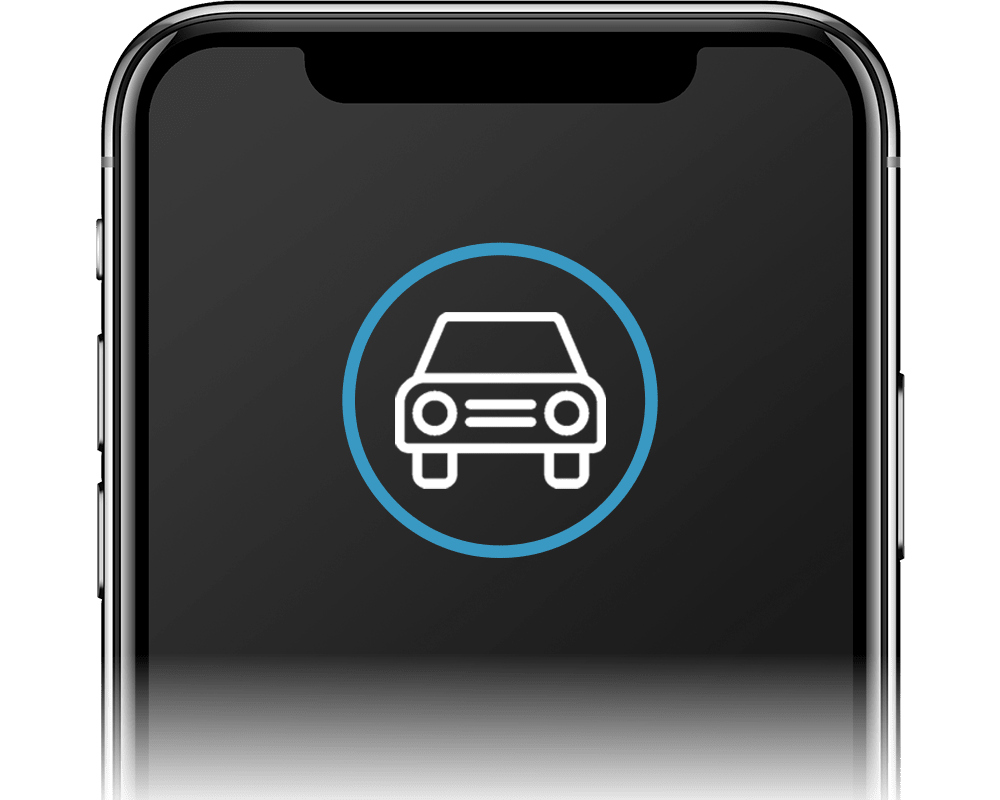
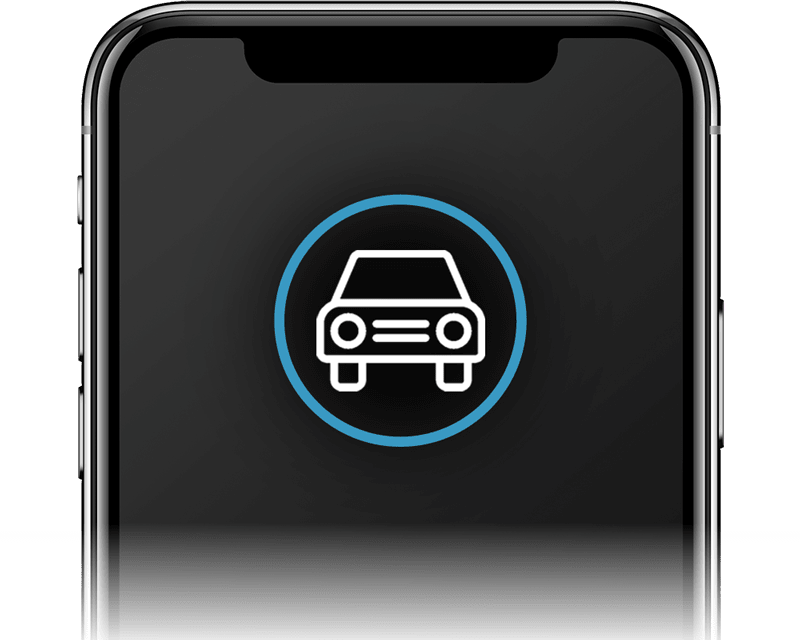
Updated images

diff --git a/data/home.js b/data/home.js
@@ -8,7 +8,7 @@ export const firstSlider = [
   },
   {
     title: 'Select & Approve',
-    image: require('assets/images/home/first-slide-two.png'),
+    image: require('assets/images/home/first-slide-two.jpg'),
     gradient: 'bg-gradient-to-r from-blue-400 to-green-400',
     description:
       'We research and send you the best vehicles that fit your criteria for you to choose from.',
